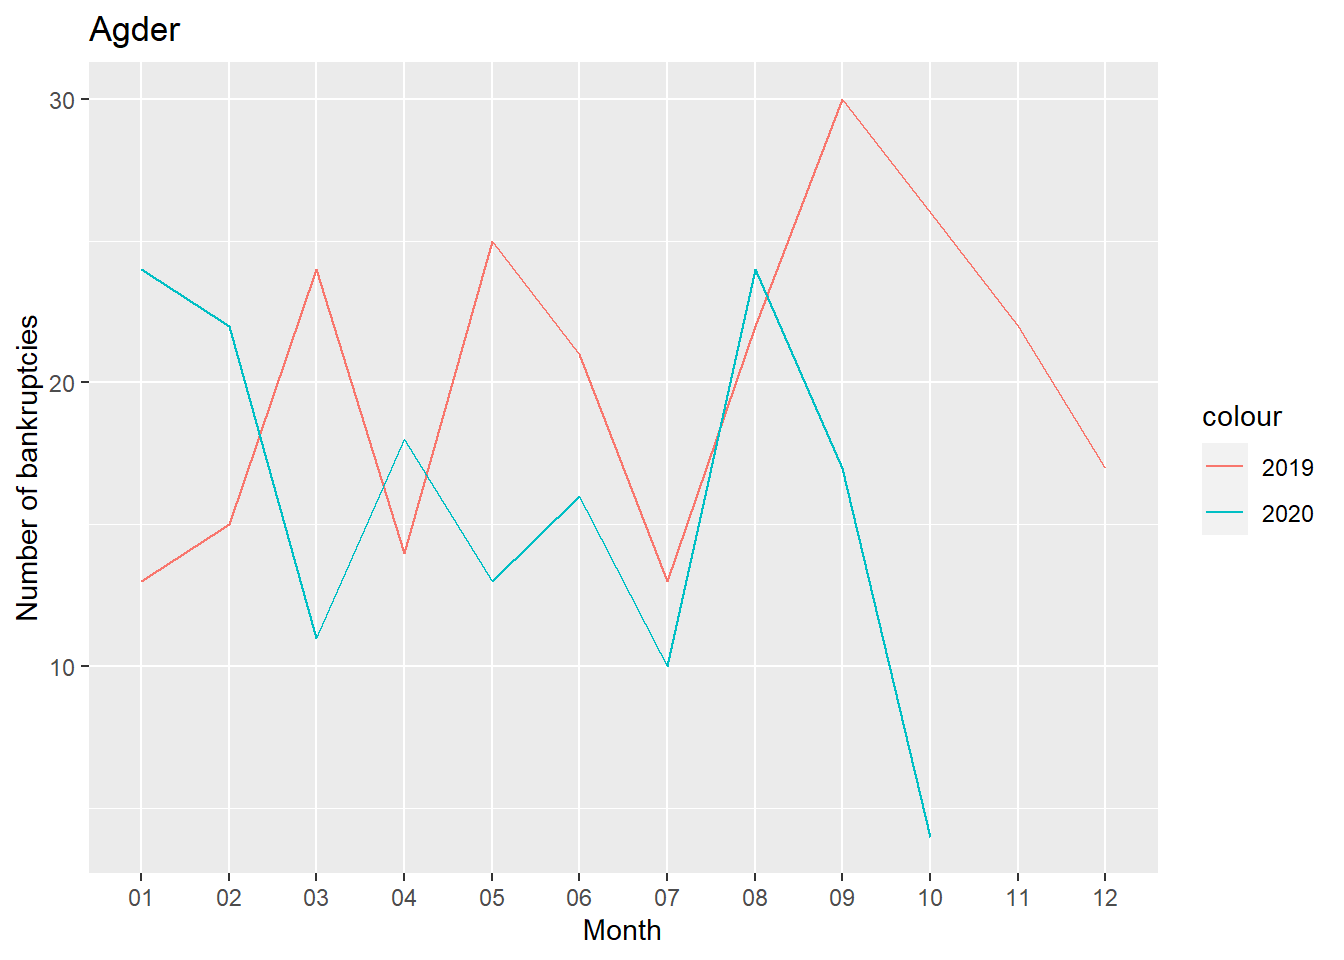
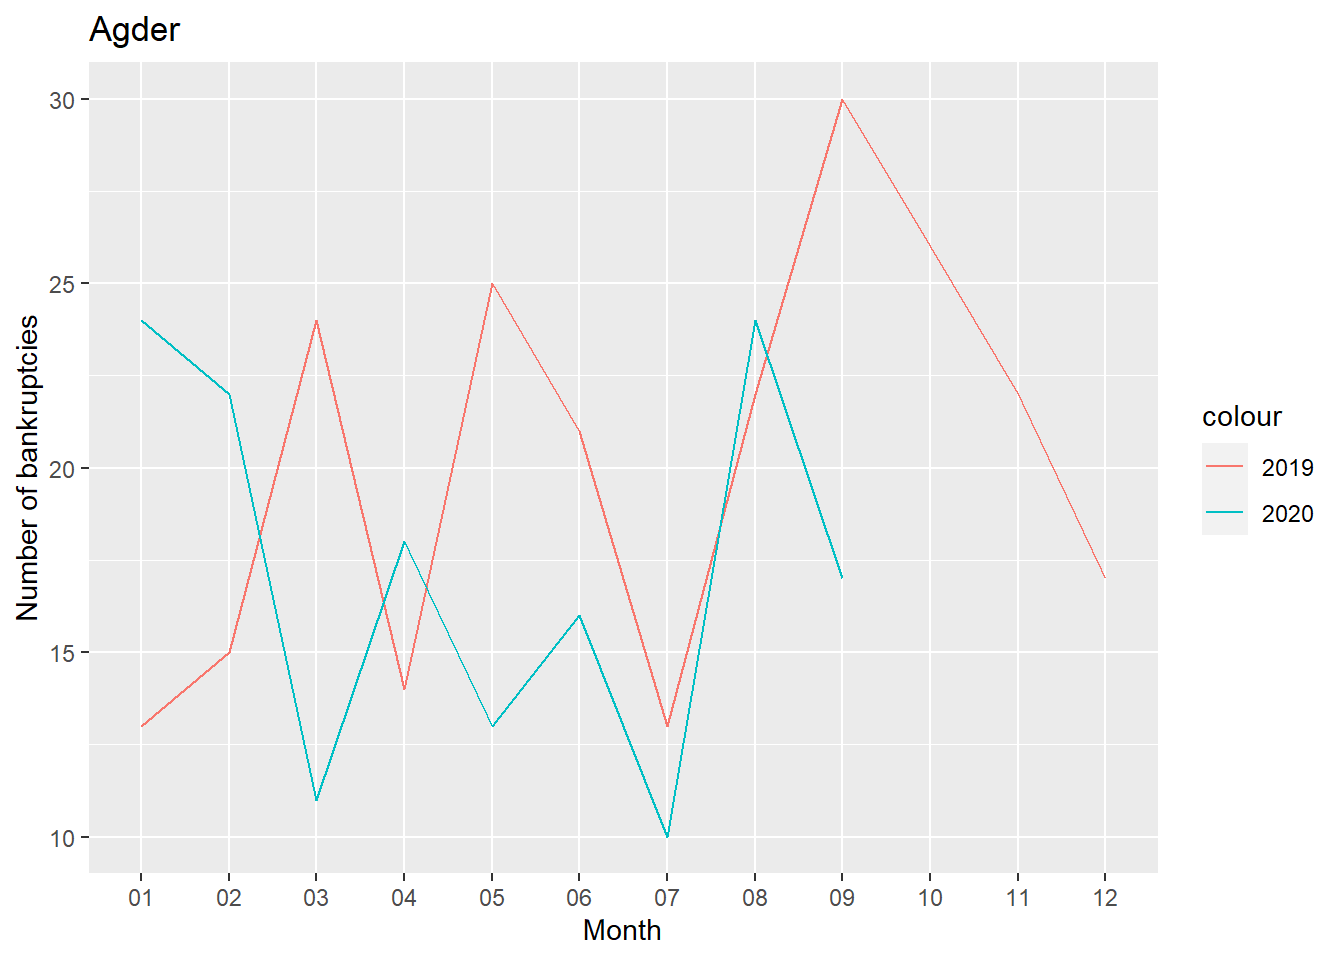
Only get until september 2019 as there is not enough data from october

diff --git a/Assignment 6 - Is there a surge of bankruptcies due to Covid-19/_site/main.html b/Assignment 6 - Is there a surge of bankruptcies due to Covid-19/_site/main.html
@@ -301,8 +301,8 @@ $(document).ready(function () {
 <div id="vs-2020-bankruptcies-per-county" class="section level2">
 <h2>2019 vs 2020 Bankruptcies Per County</h2>
 <p><img src="main_files/figure-html/plots-1.png" width="672" /><img src="main_files/figure-html/plots-2.png" width="672" /><img src="main_files/figure-html/plots-3.png" width="672" /><img src="main_files/figure-html/plots-4.png" width="672" /><img src="main_files/figure-html/plots-5.png" width="672" /><img src="main_files/figure-html/plots-6.png" width="672" /><img src="main_files/figure-html/plots-7.png" width="672" /><img src="main_files/figure-html/plots-8.png" width="672" /><img src="main_files/figure-html/plots-9.png" width="672" /><img src="main_files/figure-html/plots-10.png" width="672" /><img src="main_files/figure-html/plots-11.png" width="672" /><img src="main_files/figure-html/plots-12.png" width="672" /></p>
-<p>Based on the results when comparing data from 2019-01-01 to 2020-10-12 no clear conclusion can be taken as there are no significant change. However looking at these numbers alone is not enough to give a final conclusion. This is because some company types are more affected than others such as the musical industry.</p>
-<p>It would thus be neccessary to include other data to be able to take a better conclusion.</p>
+<p>Based on the results when comparing data from 2019-01-01 to 2020-09-30 no clear conclusion can be taken as there are no clear trend. However looking at these numbers alone is not enough to give a final conclusion. This is because some company types are more affected than others such as the musical industry.</p>
+<p>It would thus be necessary to include other data to be able to take a better conclusion.</p>
 </div>
 
 
